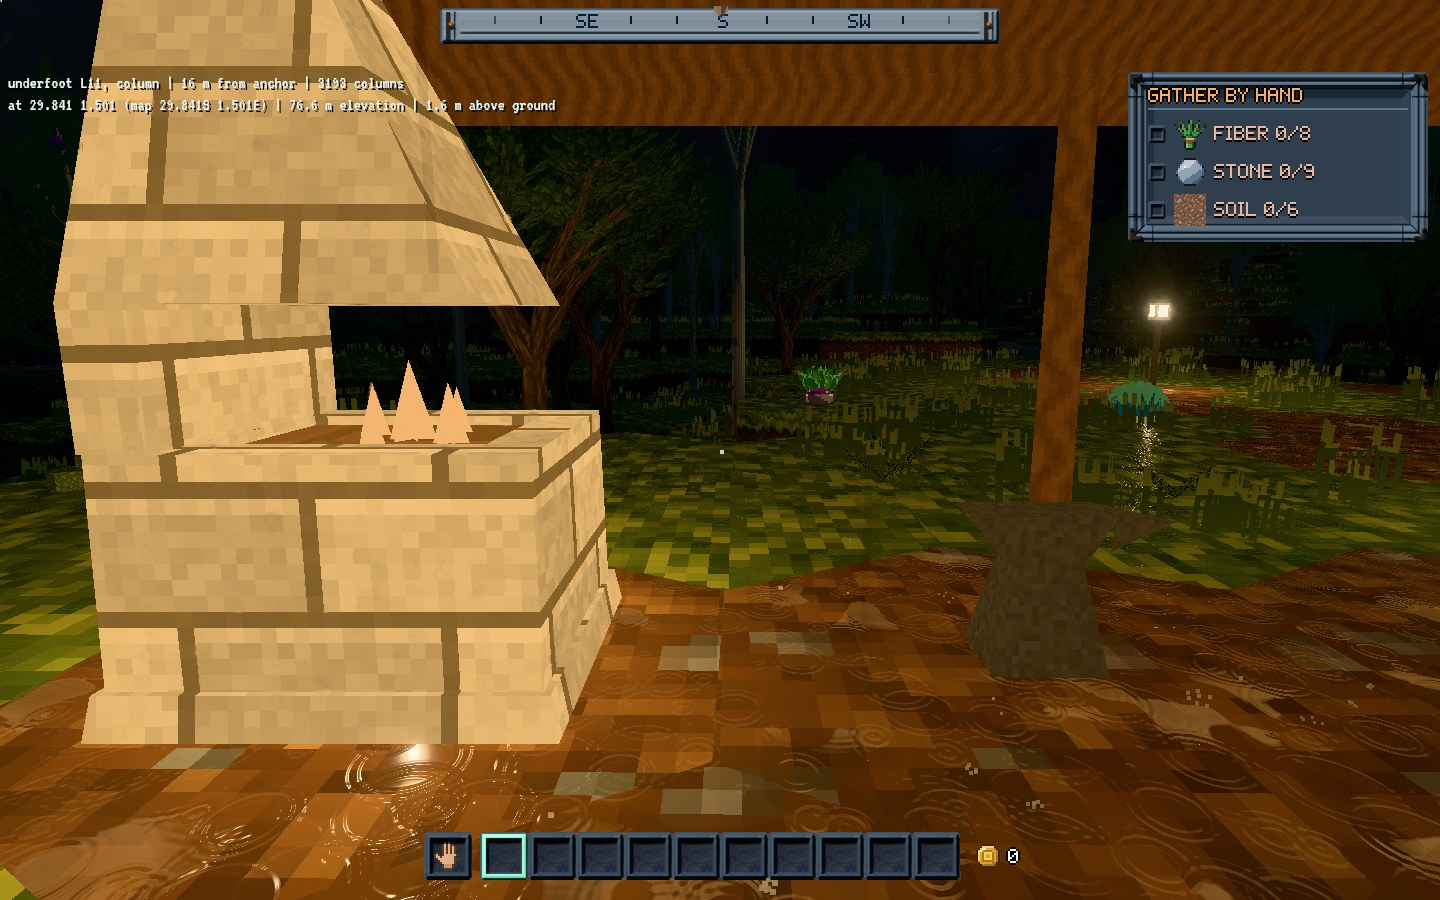
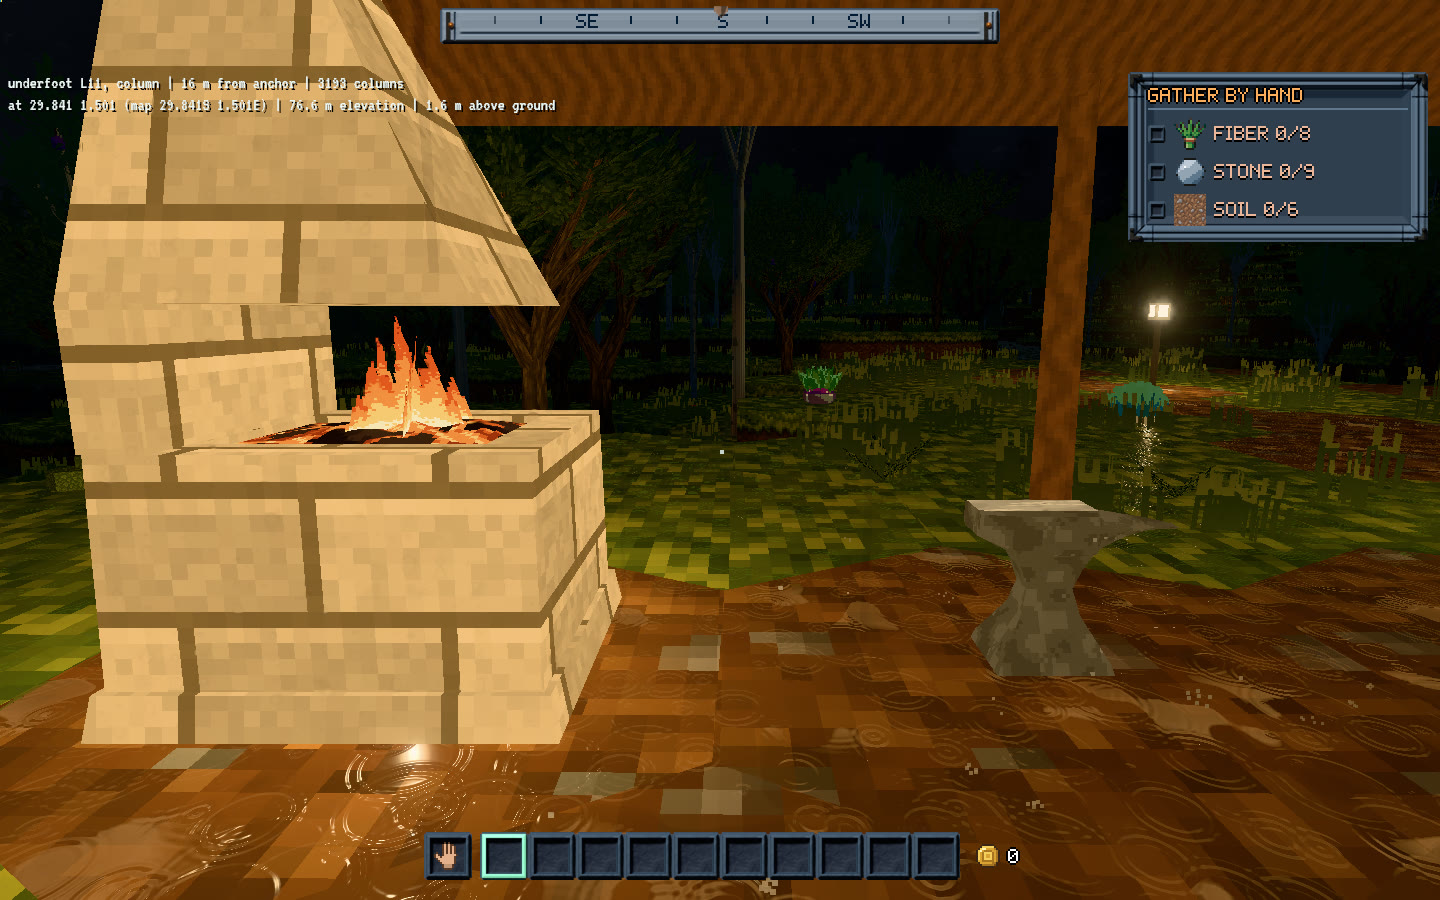
townsfolk 3.2b: the forge's fire and anvil captured close up and retaken (lavapipe)
Claude-Session: https://claude.ai/code/session_01HdzuTLFpHQDj3CqFAuBEus

diff --git a/openspec/changes/townsfolk/tasks.md b/openspec/changes/townsfolk/tasks.md
@@ -18,7 +18,7 @@ towns mockup is on the roadmap (the owner, 2026-09-27).
 
 - [x] 3.1 Each person's circle in the settlement's moving-solid list, checked by the walker. Verify: an app test that walking straight into a working smith slides round them with no overlapping tick. Done: `walking::tests::walking_into_a_working_smith_slides_round_him`.
 - [x] 3.2 Lighting through the field's sampler. Verify: a capture of the smith at the forge at 22:30. Lit through the field (`LitByField`, `LitLikeTerrain`). The forge is built (design 26a, 2026-11-24): the template's smithy (shed, forge, anvil) cut in every village and walled town laid at layout 3, its fire a brazier lamp in the field; towns stored at layout 1 or 2 keep their pieces and lamps (`settlement::tests::a_new_town_stands_its_forge_and_an_old_one_is_as_it_was`). Shot at nightfall (20:45, `smith-forge-2045.jpg`: at 22:30 the smith is abed, `smith-forge-2230.jpg` shows the forge alone) and by day (`forge-day.jpg`), lavapipe. The fire's tongues read pale under the tonemapper at night: a look to judge on the desktop.
-- [ ] 3.2b The forge's fire and anvil redone (design 26b): one textured flame over a bed of coals, one lofted anvil with its face, horn and heel, new textures from `tools/art/forge_art.py`. Verify: looked at close up (`forge-close.jpg`) and the 26a shots retaken; settlement and towns tests pass.
+- [x] 3.2b The forge's fire and anvil redone (design 26b): one textured flame over a bed of coals, one lofted anvil with its face, horn and heel, new textures from `tools/art/forge_art.py`. Verify: looked at close up (`forge-close.jpg`) and the 26a shots retaken; settlement and towns tests pass. Shot on lavapipe: `smith-forge-2045.jpg`, `smith-forge-2230.jpg`, `forge-day.jpg`, `forge-close.jpg` (the before shots kept as `*-before.jpg`).
 
 ## 4. The owner's check
 
